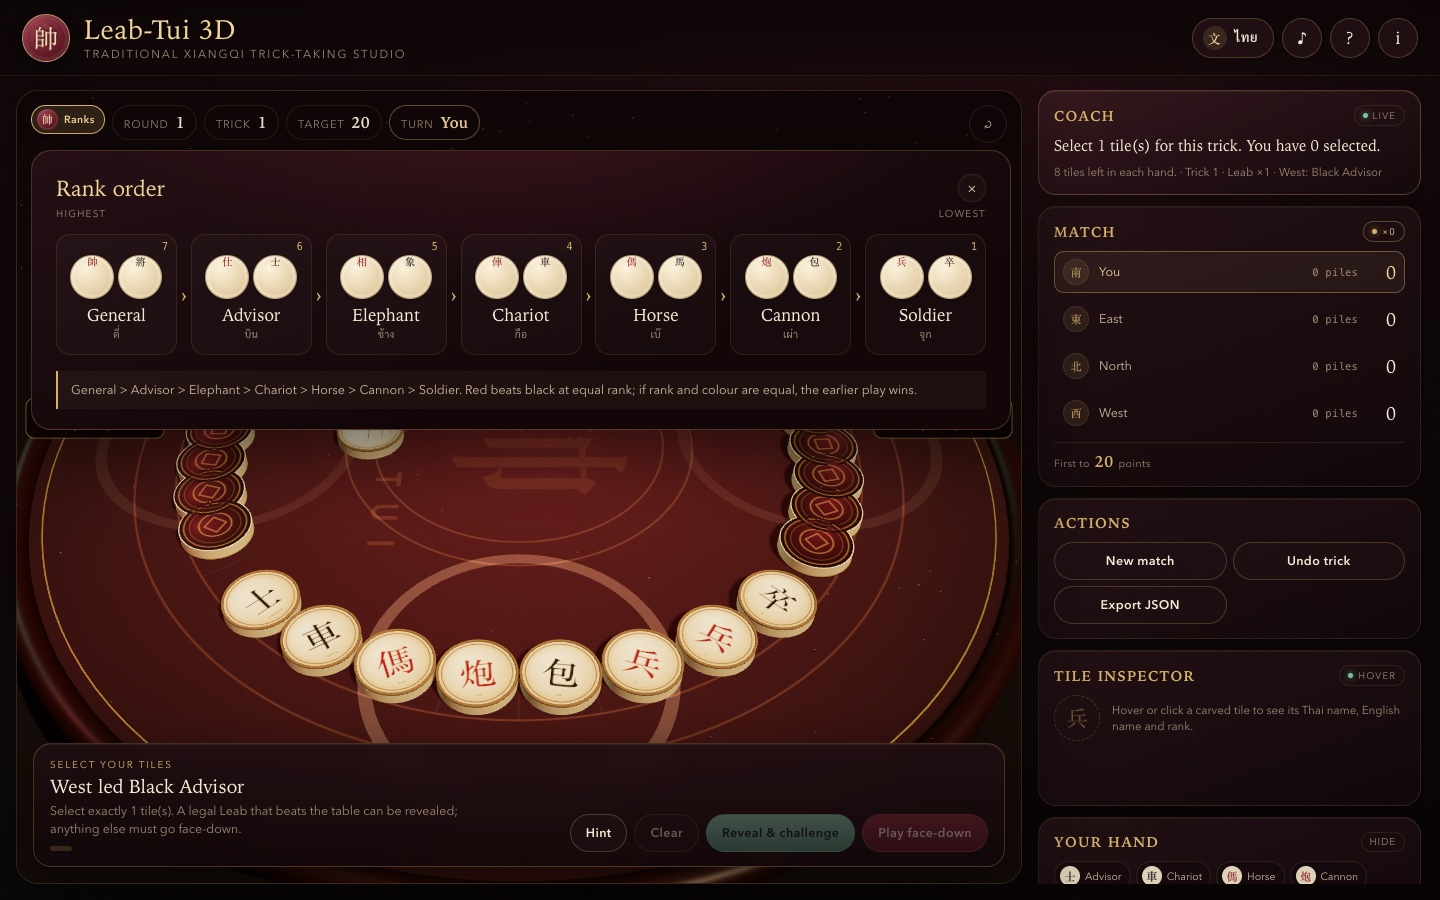
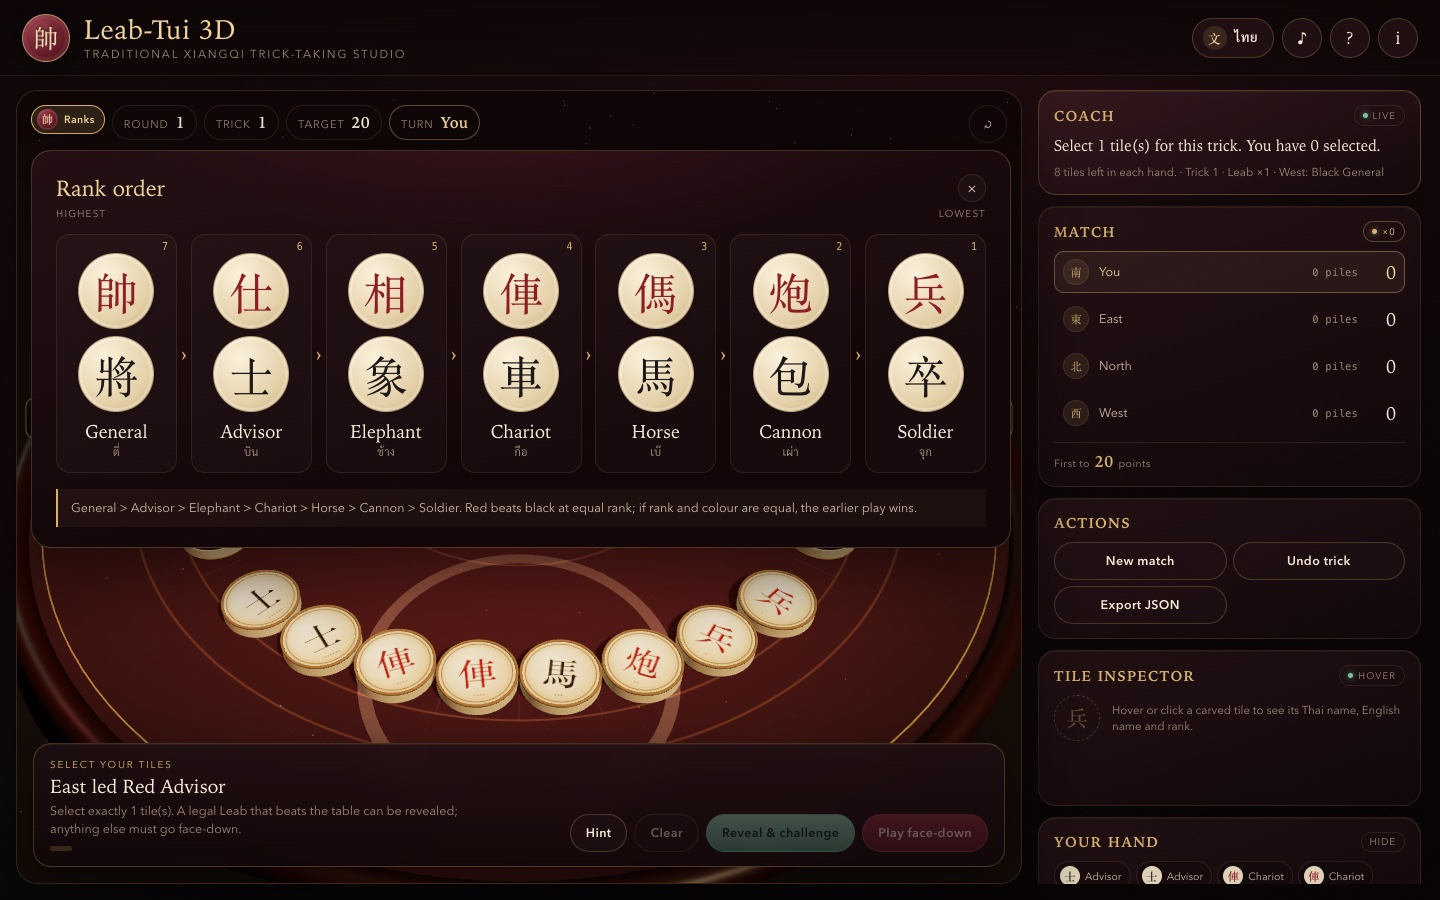
Enlarge the rank-sheet Chinese characters

diff --git a/style.css b/style.css
@@ -942,24 +942,24 @@ a:hover { text-decoration: underline; }
   text-align: center;
 }
 .rank-step em { position: absolute; top: 6px; right: 8px; color: var(--gold); font-family: var(--mono); font-size: calc(10px * var(--fs-scale)); font-style: normal; }
-.rank-tiles { display: flex; justify-content: center; gap: 4px; margin-top: 2px; }
+.rank-tiles { display: flex; flex-direction: column; align-items: center; gap: 7px; margin-top: 2px; }
 .mini-tile {
   display: grid;
   place-items: center;
-  width: 44px;
-  height: 44px;
+  width: 76px;
+  height: 76px;
   border-radius: 50%;
   border: 1px solid rgba(120, 80, 35, 0.4);
   background: radial-gradient(circle at 35% 28%, #fbf1dc, #e4d0a8 65%, #c7aa78);
   font-family: var(--serif);
-  font-size: calc(24px * var(--fs-scale));
+  font-size: calc(44px * var(--fs-scale));
   line-height: 1;
   box-shadow: inset 0 0 0 3px rgba(255, 255, 255, 0.25), 0 3px 8px rgba(0, 0, 0, 0.14);
 }
 .mini-tile.red { color: #8d1f24; }
 .mini-tile.black { color: #1d1716; }
-.rank-step b { display: block; margin-top: 7px; font-family: var(--serif); font-size: calc(17px * var(--fs-scale)); font-weight: 500; color: var(--ink); line-height: 1.1; }
-.rank-step span { display: block; margin-top: 2px; color: var(--ink-faint); font-size: calc(10.5px * var(--fs-scale)); letter-spacing: 0.02em; }
+.rank-step b { display: block; margin-top: 10px; font-family: var(--serif); font-size: calc(18px * var(--fs-scale)); font-weight: 500; color: var(--ink); line-height: 1.1; }
+.rank-step > span { display: block; margin-top: 2px; color: var(--ink-faint); font-size: calc(11px * var(--fs-scale)); letter-spacing: 0.02em; }
 .rank-arrow { align-self: center; color: var(--gold); font-family: var(--serif); font-size: calc(22px * var(--fs-scale)); line-height: 1; }
 .rank-note { margin: 4px 0 0; padding: 10px 13px; border-left: 2px solid var(--gold); background: var(--note-bg); color: var(--ink-dim); font-size: calc(12.5px * var(--fs-scale)); line-height: 1.45; }
 
@@ -1110,9 +1110,9 @@ a:hover { text-decoration: underline; }
   .quick-ref-btn > span:last-child { display: none; }
   .rank-reference { width: calc(100vw - 20px); max-height: 82dvh; padding: 18px 16px 16px; }
   .rank-steps { display: grid; grid-template-columns: repeat(2, minmax(0, 1fr)); gap: 8px; overflow: visible; }
-  .rank-step { flex-basis: auto; min-width: 0; padding: 14px 8px 12px; }
+  .rank-step { flex-basis: auto; min-width: 0; padding: 12px 6px 10px; }
   .rank-arrow { display: none; }
-  .mini-tile { width: 44px; height: 44px; font-size: calc(24px * var(--fs-scale)); }
+  .mini-tile { width: 64px; height: 64px; font-size: calc(36px * var(--fs-scale)); }
   .hud-chip { padding: 4px 8px; font-size: calc(9px * var(--fs-scale)); }
   .hud-chip strong { font-size: calc(12px * var(--fs-scale)); }
   .stage-tools { top: 9px; right: 9px; gap: 5px; }

diff --git a/script.js b/script.js
@@ -7,7 +7,7 @@
 const APP = Object.freeze({
   name: "Leab-Tui 3D",
   fullName: "Leab-Tui 3D — Traditional Xiangqi Trick-Taking Studio",
-  version: "1.3.1",
+  version: "1.3.2",
   format: "leab-tui-3d-save",
   storageKey: "leabtui.match.v1",
   prefsKey: "leabtui.prefs.v1",

diff --git a/STATE.md b/STATE.md
@@ -10,14 +10,14 @@
 | Field | Value |
 | --- | --- |
 | Project status | ✅ Complete, verified and published |
-| App version | `1.3.1` |
+| App version | `1.3.2` |
 | Repository | <https://github.com/somphol/leab-tui-3d> |
 | Live page | <https://somphol.github.io/leab-tui-3d/> (Pages verified, self-test 25/25) |
 | Primary branch | `main` |
 | Build type | Static site; no package manager, no build step |
 | Source files | `index.html`, `style.css`, `script.js` |
 | Source lines | 5,256 |
-| Source size | 234,471 bytes (~229 KB) |
+| Source size | 234,492 bytes (~229 KB) |
 | Runtime dependency | Three.js r160 from jsDelivr (pinned) |
 | Storage | `localStorage` + JSON export |
 | Licence | MIT |
@@ -44,6 +44,10 @@ Added a **Ranks** control at the top-left HUD. It opens a pictorial hierarchy of
 
 Enlarged the reference to a near-full-stage sheet (980 px desktop) with 44 px tile medallions, 17 px names and a larger note. Phones use a two-column grid so all seven ranks fit without horizontal scrolling.
 
+## Release 1.3.2 — large Hanzi
+
+The rank-sheet glyphs were being overridden by the secondary-name rule and rendered at 11 px. Fixed the selector so the red/black characters are **44 px on 76 px medallions** on desktop (36 px on 64 px on phones), stacked vertically for easy comparison with the table.
+
 ## Build timeline
 
 | Milestone | Time (local) | Elapsed |
@@ -61,22 +65,23 @@ Enlarged the reference to a near-full-stage sheet (980 px desktop) with 44 px ti
 | **Bright themes + verification** | 16:57–17:07 | 10m 25s |
 | **Rank quick reference** | 17:22–17:32 | 10m 31s |
 | **Rank sheet enlargement** | 17:32–17:40 | 8m 0s |
+| **Large Hanzi fix** | 17:40–18:00 | 20m 0s |
 
-**Measured active build estimate:** **~2h 13m** across the initial build, display/audio update, chevron removal, bright themes, the rank quick reference and its enlargement. Session wall clock is much longer because it includes idle gaps between requests.
+**Measured active build estimate:** **~2h 33m** across the initial build, display/audio update, chevron removal, bright themes, the rank quick reference and the large-glyph fix. Session wall clock is much longer because it includes idle gaps between requests.
 
 ## Token consumption
 
-Measured from the OpenCode session record `ses_e5a5e419dffedJGEsMy3mKV3ey` at 2026-11-04 17:40:53 (-08:00), including display settings, five themes, the audio rebalance, the chevron removal and the enlarged rank reference:
+Measured from the OpenCode session record `ses_e5a5e419dffedJGEsMy3mKV3ey` at 2026-11-04 18:00:36 (-08:00), including display settings, five themes, the audio rebalance, the chevron removal and the rank reference:
 
 | Metric | Tokens |
 | --- | ---: |
-| Input | 536,022 |
-| Output | 217,402 |
-| Reasoning | 171,036 |
-| **Total (input + output + reasoning)** | **924,460** |
-| Cache read | 96,474,240 |
+| Input | 546,686 |
+| Output | 221,205 |
+| Reasoning | 175,044 |
+| **Total (input + output + reasoning)** | **942,935** |
+| Cache read | 101,512,832 |
 | Cache write | 1,639 |
-| **Total including cache** | **97,400,339** |
+| **Total including cache** | **102,457,406** |
 | Cost | $0.00 (as reported) |
 
 The cache figures describe context reuse, not additional generated work. They are reported separately so the headline number stays comparable to a normal token count. These are session totals. The final state-file commit and Pages rebuild add a small number of tokens; the session ID allows re-measurement from `opencode.db`.

diff --git a/CHANGELOG.md b/CHANGELOG.md
@@ -2,6 +2,14 @@
 
 All notable changes to Leab-Tui 3D are documented here. The format follows [Keep a Changelog](https://keepachangelog.com/en/1.1.0/) and the project uses [Semantic Versioning](https://semver.org/).
 
+## [1.3.2] — 2026-11-04
+
+### Fixed
+
+- The Hanzi in the rank sheet were being overridden by the secondary-name selector and rendered at 11 px. The name rule is now scoped to the direct child, so the red/black glyphs render at **44 px on 76 px medallions** on desktop and **36 px on 64 px** on phones.
+- The red and black tiles are stacked in each card, making the characters much easier to compare against the table.
+- Screenshots regenerated.
+
 ## [1.3.1] — 2026-11-04
 
 ### Changed

diff --git a/README.md b/README.md
@@ -1,7 +1,7 @@
 # Leab-Tui 3D — Traditional Xiangqi Trick-Taking Studio
 
 [![Live demo](https://img.shields.io/badge/live-demo-d8b26b)](https://somphol.github.io/leab-tui-3d/)
-[![Release](https://img.shields.io/badge/release-v1.3.1-7b2434)](CHANGELOG.md)
+[![Release](https://img.shields.io/badge/release-v1.3.2-7b2434)](CHANGELOG.md)
 [![License: MIT](https://img.shields.io/badge/license-MIT-brightgreen)](LICENSE)
 [![No build](https://img.shields.io/badge/build-none-lightgrey)](docs/ARCHITECTURE.md)
 [![Three.js r160](https://img.shields.io/badge/three.js-r160-79c3a3)](https://threejs.org/)
